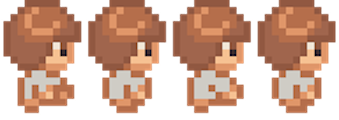
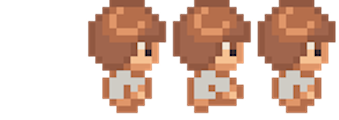
fixed character

Changed region(s): [[0.0, 0.0, 0.2655, 0.95]]

diff --git a/js/app.js b/js/app.js
@@ -339,12 +339,12 @@ playerUpBattle.src = './img/playerRightBattle.png';
 playerUpBattle.height = 700
 const playerBattle = new Sprite({
   position: {
-    x:220,
+    x:160,
     y:400
   },
   image: playerUpBattle,
   frames: {
-    max:4,
+    max:2,
     hold: 0
   },
   animate: true
